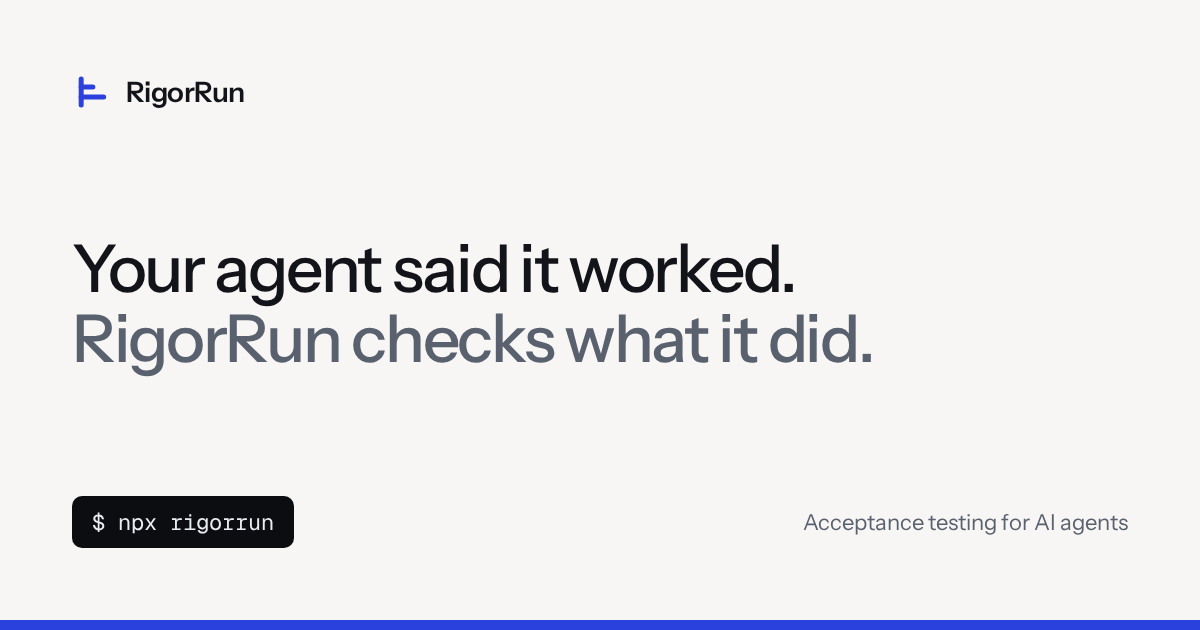
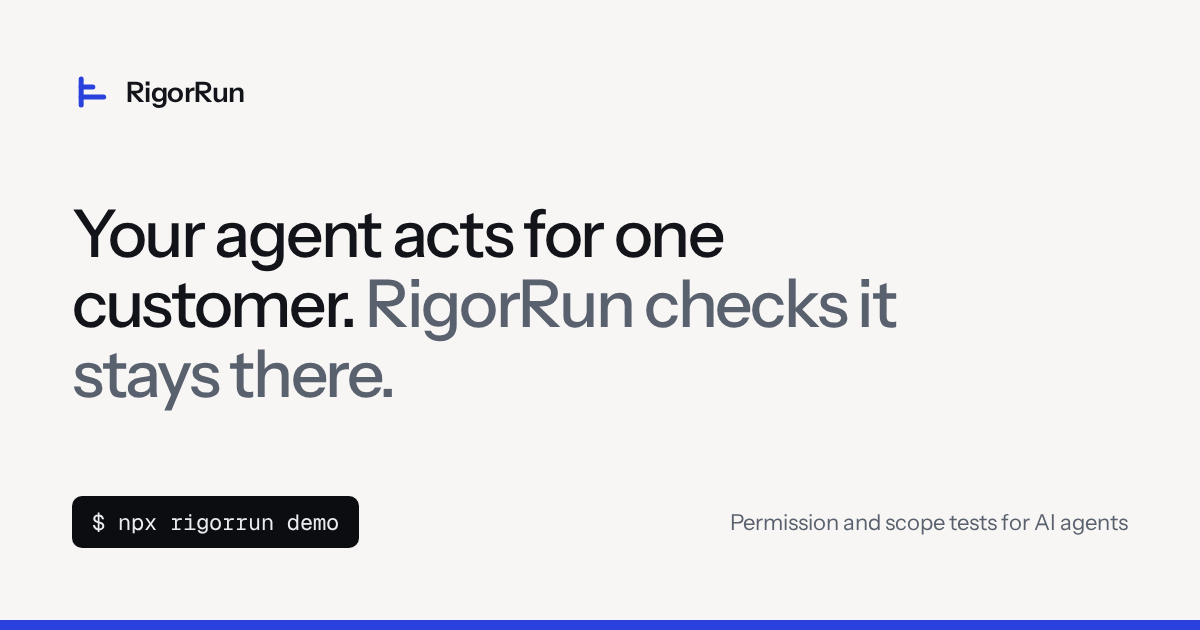
site: share card reads the permissions headline; progress updated

Changed region(s): [[0.0617, 0.3317, 0.74, 0.6635], [0.6167, 0.8143, 0.8325, 0.8444], [0.2158, 0.7841, 0.3083, 0.8746]]

diff --git a/docs/context/PROGRESS.md b/docs/context/PROGRESS.md
@@ -11,7 +11,8 @@
   Parahelp, Quivr). Resumes after the Phase 0 deploy.
 - **Released:** `rigorrun` 0.4.0 (2026-10-01). Qualified tree `aee8fe5`; any change under
   `packages/` needs a re-qualification before the next release.
-- **Working branch:** `positioning/permissions` in `~/RigorRun-dev`.
+- **Working branches:** `positioning/permissions` (Phase 0, no `packages/` changes) and
+  `engine/0.5.0` (Phase 1; has T-001). Agents work in `~/RigorRun-agents/<agent>-<task>`.
 
 ## Phases
 
@@ -27,20 +28,20 @@
 
 ## Tasks
 
-| id  | Task                                                                                                                | Phase | Agent          | Status          | Commit / branch         | Verified                     |
-| --- | ------------------------------------------------------------------------------------------------------------------- | ----- | -------------- | --------------- | ----------------------- | ---------------------------- |
-| A-1 | `docs/context/` (POSITIONING, CLAIMS, PRD, PROGRESS, DECISIONS, AGENT_WORKFLOW, tasks/TEMPLATE)                     | A     | claude         | review          | positioning/permissions | —                            |
-| A-2 | Archive v0.2 positioning (`docs/archive/v0.2/`), banners on GETTING_STARTED, CONNECT_AGENT_10_MINUTES, V1_GAP_AUDIT | A     | claude         | review          | positioning/permissions | —                            |
-| A-3 | `scripts/check-claims.mjs` + `pnpm claims` in `verify` and `release:verify`                                         | A     | claude         | review          | positioning/permissions | self-test ok; 65 files clean |
-| A-4 | `AGENTS.md`, `CLAUDE.md`, `.cursor/rules/rigorrun.mdc`                                                              | A     | claude         | review          | positioning/permissions | —                            |
-| A-5 | Cursor agent installed; founder logs in (`cursor-agent login`)                                                      | A     | founder        | blocked (login) | —                       | —                            |
-| A-6 | Canary task for Codex and for Cursor, reviewed by Claude                                                            | A     | codex, cursor  | todo            | —                       | —                            |
-| 0-1 | Home page, docs index and "what it is": permissions-first copy (keep the working commands)                          | 0     | claude         | todo            | —                       | —                            |
-| 0-2 | company / how-it-works / what-is-built pages, `llms.txt`, root README                                               | 0     | codex / cursor | todo            | —                       | —                            |
-| 0-3 | Copy-pinning tests (`e2e/smoke.spec.ts:16`, `e2e/site.spec.ts:75,177-178`)                                          | 0     | cursor         | todo            | —                       | —                            |
-| 0-4 | OG image text (`scripts/build-brand.mjs`), demo video command or hide the video                                     | 0     | claude         | todo            | —                       | —                            |
-| 0-5 | Email v2, follow-up, bot prompt, CSV marked sent                                                                    | 0     | claude         | todo            | —                       | —                            |
-| 0-6 | Deploy site and docs; `release:verify:prod`; resume outreach                                                        | 0     | claude         | todo            | —                       | —                            |
+| id  | Task                                                                                                                | Phase | Agent          | Status                                       | Commit / branch                       | Verified                                                       |
+| --- | ------------------------------------------------------------------------------------------------------------------- | ----- | -------------- | -------------------------------------------- | ------------------------------------- | -------------------------------------------------------------- |
+| A-1 | `docs/context/` (POSITIONING, CLAIMS, PRD, PROGRESS, DECISIONS, AGENT_WORKFLOW, tasks/TEMPLATE)                     | A     | claude         | done                                         | 398f198                               | claude: pnpm claims, docs tests                                |
+| A-2 | Archive v0.2 positioning (`docs/archive/v0.2/`), banners on GETTING_STARTED, CONNECT_AGENT_10_MINUTES, V1_GAP_AUDIT | A     | claude         | done                                         | 398f198                               | claude: daemon/env-stripe/cli doc tests pass                   |
+| A-3 | `scripts/check-claims.mjs` + `pnpm claims` in `verify` and `release:verify`                                         | A     | claude         | done                                         | 398f198, 622652a                      | claude: self-test ok; site, docs and outreach clean            |
+| A-4 | `AGENTS.md`, `CLAUDE.md`, `.cursor/rules/rigorrun.mdc`                                                              | A     | claude         | done                                         | 398f198                               | —                                                              |
+| A-5 | Cursor agent installed; founder logs in (`cursor-agent login`)                                                      | A     | founder        | blocked (login)                              | —                                     | —                                                              |
+| A-6 | Canary task for Codex and for Cursor, reviewed by Claude                                                            | A     | codex, cursor  | codex done (T-001); cursor waiting for login | 968a504 on engine/0.5.0               | claude: 600 tests, lint, typecheck, claims                     |
+| 0-1 | Home page, docs index and "what it is": permissions-first copy (keep the working commands)                          | 0     | claude         | done                                         | 30dd254                               | claude: build:site, build:docs, 81 public e2e on local preview |
+| 0-2 | company / how-it-works / what-is-built pages, `llms.txt`, root README                                               | 0     | codex / cursor | doing (codex T-002)                          | agent/codex/T-002                     | —                                                              |
+| 0-3 | Copy-pinning tests (`e2e/smoke.spec.ts:16`, `e2e/site.spec.ts:75,177-178`)                                          | 0     | cursor         | smoke done; rest with T-002                  | 42d07ad                               | claude: smoke + site e2e on local preview                      |
+| 0-4 | OG image text (`scripts/build-brand.mjs`), demo video command or hide the video                                     | 0     | claude         | OG done; demo video still shows old command  | this commit                           | claude: viewed og.png                                          |
+| 0-5 | Email v2, follow-up, bot prompt, CSV marked sent                                                                    | 0     | claude         | drafted, waiting for founder review          | ~/Documents/rigorrun-outreach/_\_v2._ | claude: pnpm claims on both files                              |
+| 0-6 | Deploy site and docs; `release:verify:prod`; resume outreach                                                        | 0     | claude         | todo                                         | —                                     | —                                                              |
 
 ## Outreach and pilots (weekly)
 
@@ -49,6 +50,14 @@
 | 2026-09-28 | 5    | 0       | 0     | 0      | 0               |
 
 ## Log
+
+- **2026-10-02 (later)** — Step A done (context files, claims check, AGENTS/CLAUDE/Cursor rules,
+  v0.2 archived). Phase 0 copy on home, docs, OG, footer, access, llms.txt. Codex canary T-001
+  (containment finds markers inside records; missing path UNVERIFIABLE): one review round
+  (primitive arrays kept exact), verified and kept on `engine/0.5.0`. Gotcha: `codex exec` in the
+  background needs `< /dev/null`. Email v2 (templates A/S/B, follow-ups), CSV v2 (template,
+  priority; 5 marked sent) and bot prompt v2 written; not sent — waiting for the founder and the
+  deploy. Cursor agent installed, not logged in.
 
 - **2026-10-02** — Repositioned to permissions & scope (D-001). Research: per-company mapping of the
   100 targets, market and competitor scan, codebase capability audit. Plan approved: Step A →
